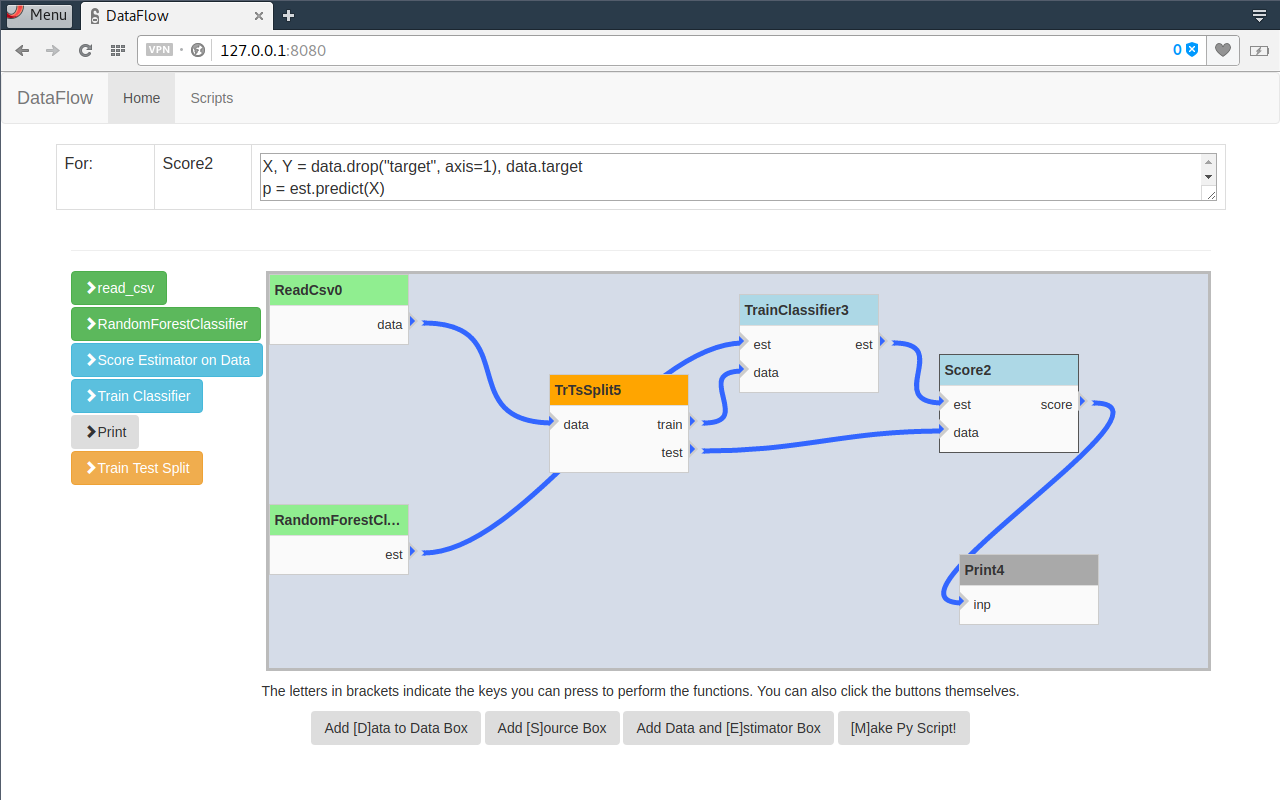
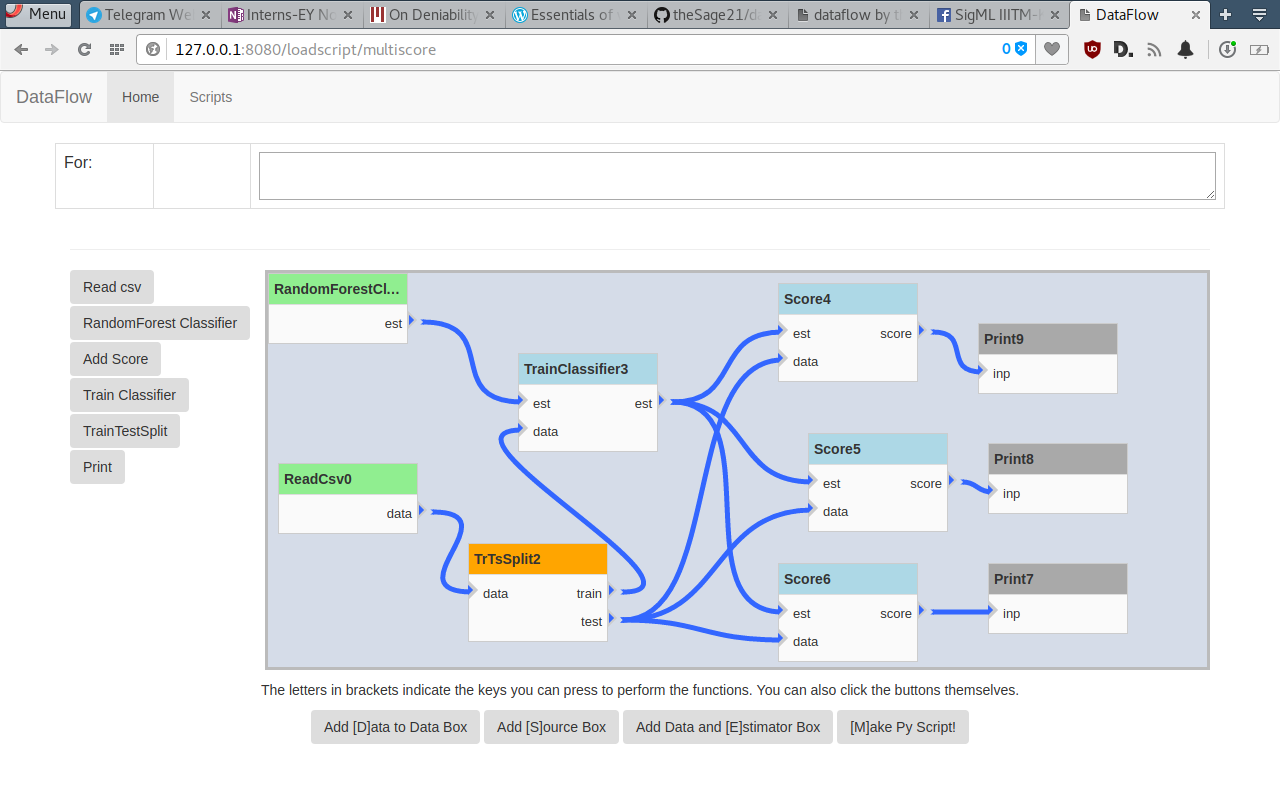
README update, config header update

diff --git a/dataflow/config.py b/dataflow/config.py
@@ -9,7 +9,7 @@ sink_box_class = 'BoxSink'
 code_imports = '''
 import numpy as np
 import pandas as pd
-from sklearn.metrics import roc_auc_score
+from sklearn.metrics import roc_auc_score, accuracy_score, f1_score
 from sklearn.ensemble import RandomForestClassifier
 from sklearn.model_selection import cross_val_score, train_test_split
 
@@ -22,8 +22,11 @@ program_table = dict(addreadcsv=['Read csv', source_box_class,
             'est = RandomForestClassifier(n_jobs=-1)'],
         addscore=['Add Score', de_box_class,
         '''X, Y = data.drop("target", axis=1), data.target
-'p = est.predict(X)
-'score = roc_auc_score(Y, p)'''],
+p = est.predict(X)
+score = roc_auc_score(Y, p)
+#score = accuracy_score(Y, p)
+#score = f1_score(Y, p)
+'''],
         addtrainclassifier=['Train Classifier', de_box_class,
         '''X, Y = data.drop("target", axis=1), data.target
 est.fit(X, Y)'''],

diff --git a/README.md b/README.md
@@ -68,55 +68,76 @@ Once the command is issued to make a file, it is generated in `static/scripts/`
 
 ```python
 # Generated on
-# 2017-01-31 16:58:56.740630
+# 2017-01-31 17:31:48.506545
 # via DataFlow: https://github.com/theSage21/dataflow
 
 
 import numpy as np
 import pandas as pd
-from sklearn.metrics import roc_auc_score
+from sklearn.metrics import roc_auc_score, accuracy_score, f1_score
 from sklearn.ensemble import RandomForestClassifier
 from sklearn.model_selection import cross_val_score, train_test_split
 
 #########################################################
 
 
-def TrainClassifier0(est=None, data=None):
-    X, Y = data.drop("target", axis=1), data.target
-    est.fit(X, Y)
-    
-    return est
-    
-
-def ReadCsv2():
+def ReadCsv0():
     data = pd.read_csv("data.csv")
     return data
     
 
-def RandomForestClassifier3():
+def RandomForestClassifier1():
     est = RandomForestClassifier(n_jobs=-1)
     return est
     
 
-def TrTsSplit4(data=None):
+def TrTsSplit2(data=None):
     X, Y = data.drop("target", axis=1), data.target
     x_tr, x_ts, y_tr, y_ts = train_test_split(X, Y, 0.25)
     train = x_tr["target"] = y_tr
     test = x_ts["target"] = y_ts
-    
     return train, test
     
 
-def Print5(inp=None):
+def TrainClassifier3(est=None, data=None):
+    X, Y = data.drop("target", axis=1), data.target
+    est.fit(X, Y)
+    return est
+    
+
+def Score4(est=None, data=None):
+    X, Y = data.drop("target", axis=1), data.target
+    p = est.predict(X)
+    score = roc_auc_score(Y, p)
+    return score
+    
+
+def Print7(inp=None):
     print(inp)
     return 
     
 
-def Score1(est=None, data=None):
-    X, Y = data.drop("target", axis=1), data.target
-    p = est.predict_proba(X)[:, 0]
-    score = roc_auc_score(Y, p)
+def Print8(inp=None):
+    print(inp)
+    return 
     
+
+def Print9(inp=None):
+    print(inp)
+    return 
+    
+
+def Score5(est=None, data=None):
+    X, Y = data.drop("target", axis=1), data.target
+    p = est.predict(X)
+    score = accuracy_score(Y, p)
+    return score
+    
+
+def Score6(est=None, data=None):
+    X, Y = data.drop("target", axis=1), data.target
+    p = est.predict(X)
+    score = f1_score(Y, p)
     return score
     
 
@@ -128,22 +149,26 @@ def Score1(est=None, data=None):
 
 # Step --------------------------<[1]>-
 
-var2 = RandomForestClassifier3()
-var0 = ReadCsv2()
+var1 = RandomForestClassifier1()
+var0 = ReadCsv0()
 
 # Step --------------------------<[2]>-
 
-var1, var4 = TrTsSplit4(var0)
+var2, var3 = TrTsSplit2(var0)
 
 # Step --------------------------<[3]>-
 
-var3 = TrainClassifier0(var2, var1)
+var4 = TrainClassifier3(var1, var2)
 
 # Step --------------------------<[4]>-
 
-var5 = Score1(var3, var4)
+var7 = Score6(var4, var3)
+var6 = Score5(var4, var3)
+var5 = Score4(var4, var3)
 
 # Step --------------------------<[5]>-
 
-Print5(var5)
+Print9(var5)
+Print8(var6)
+Print7(var7)
 ```
